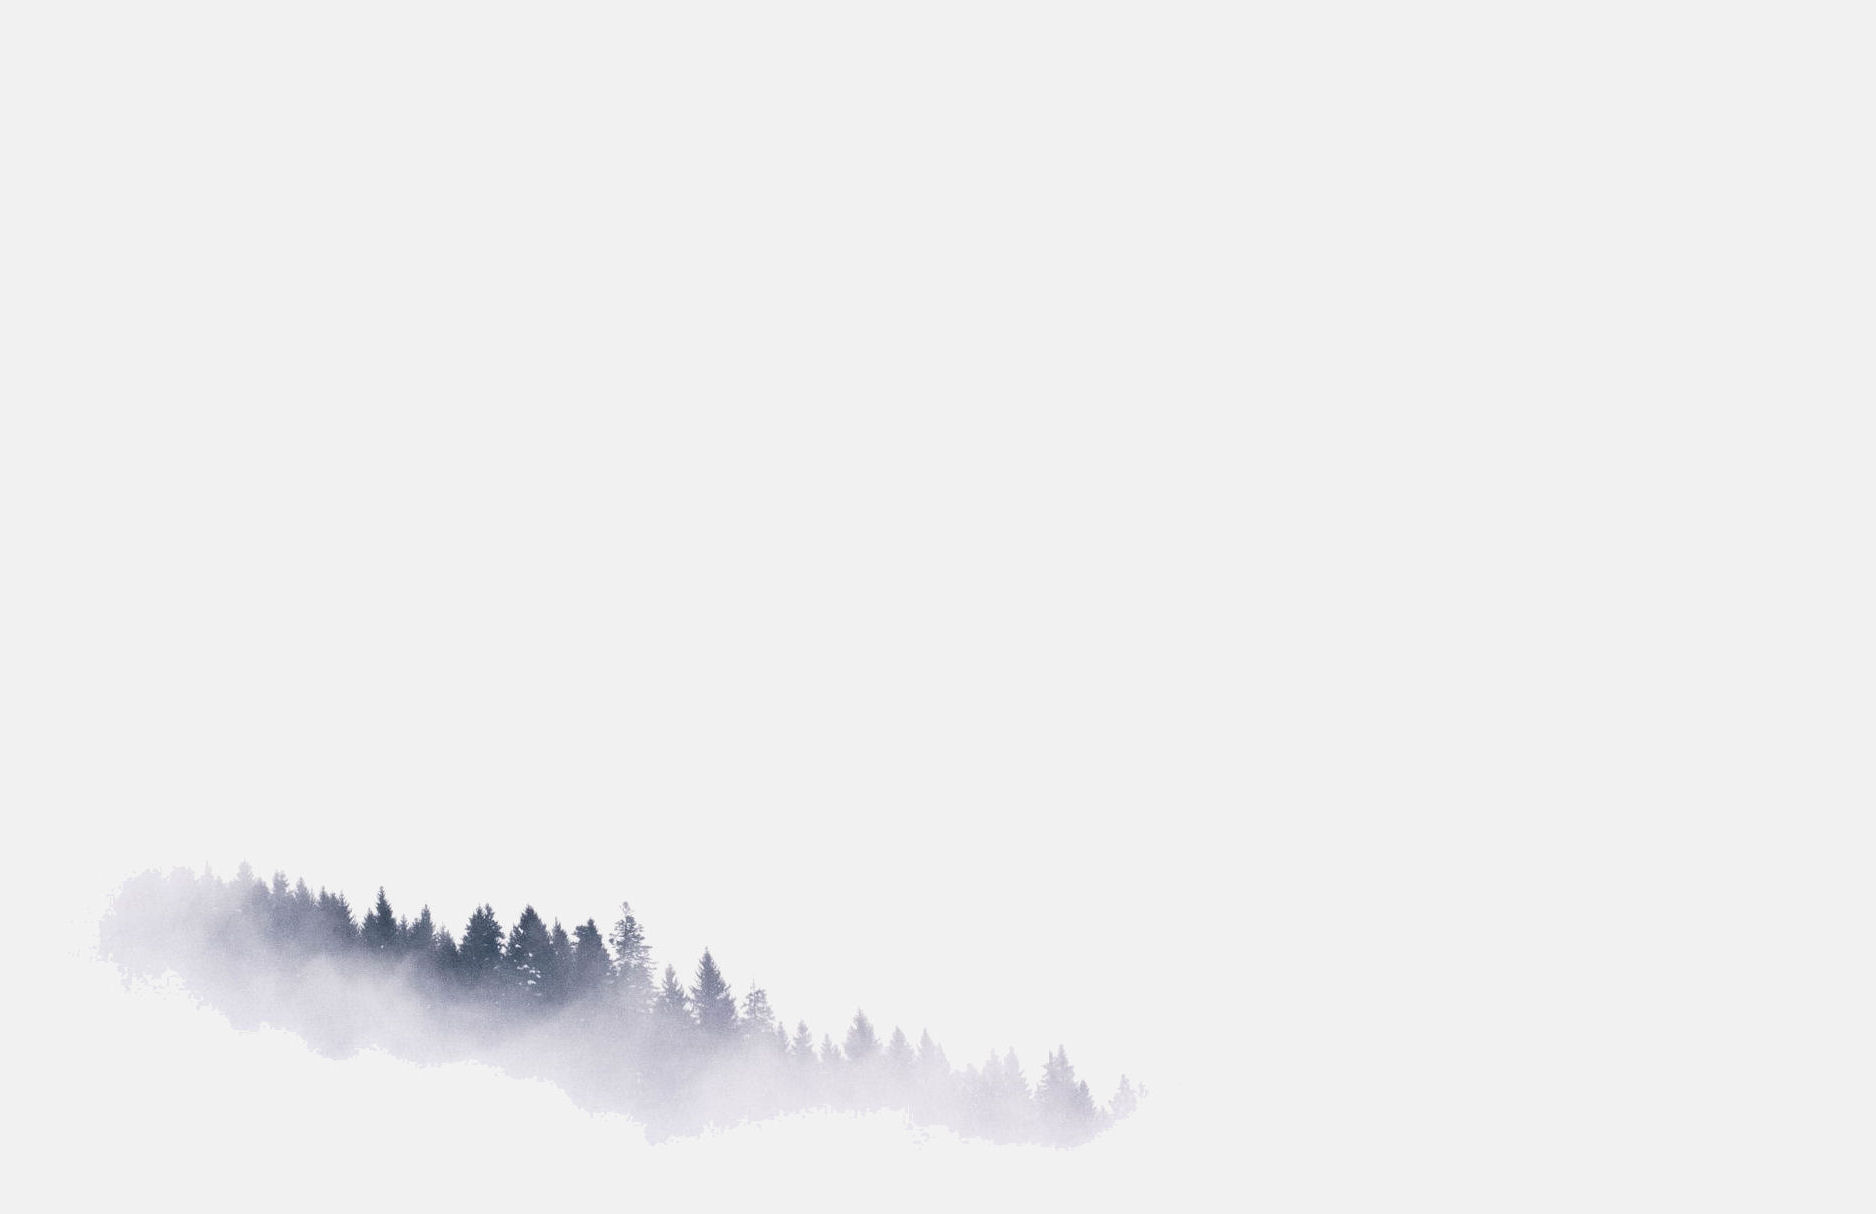
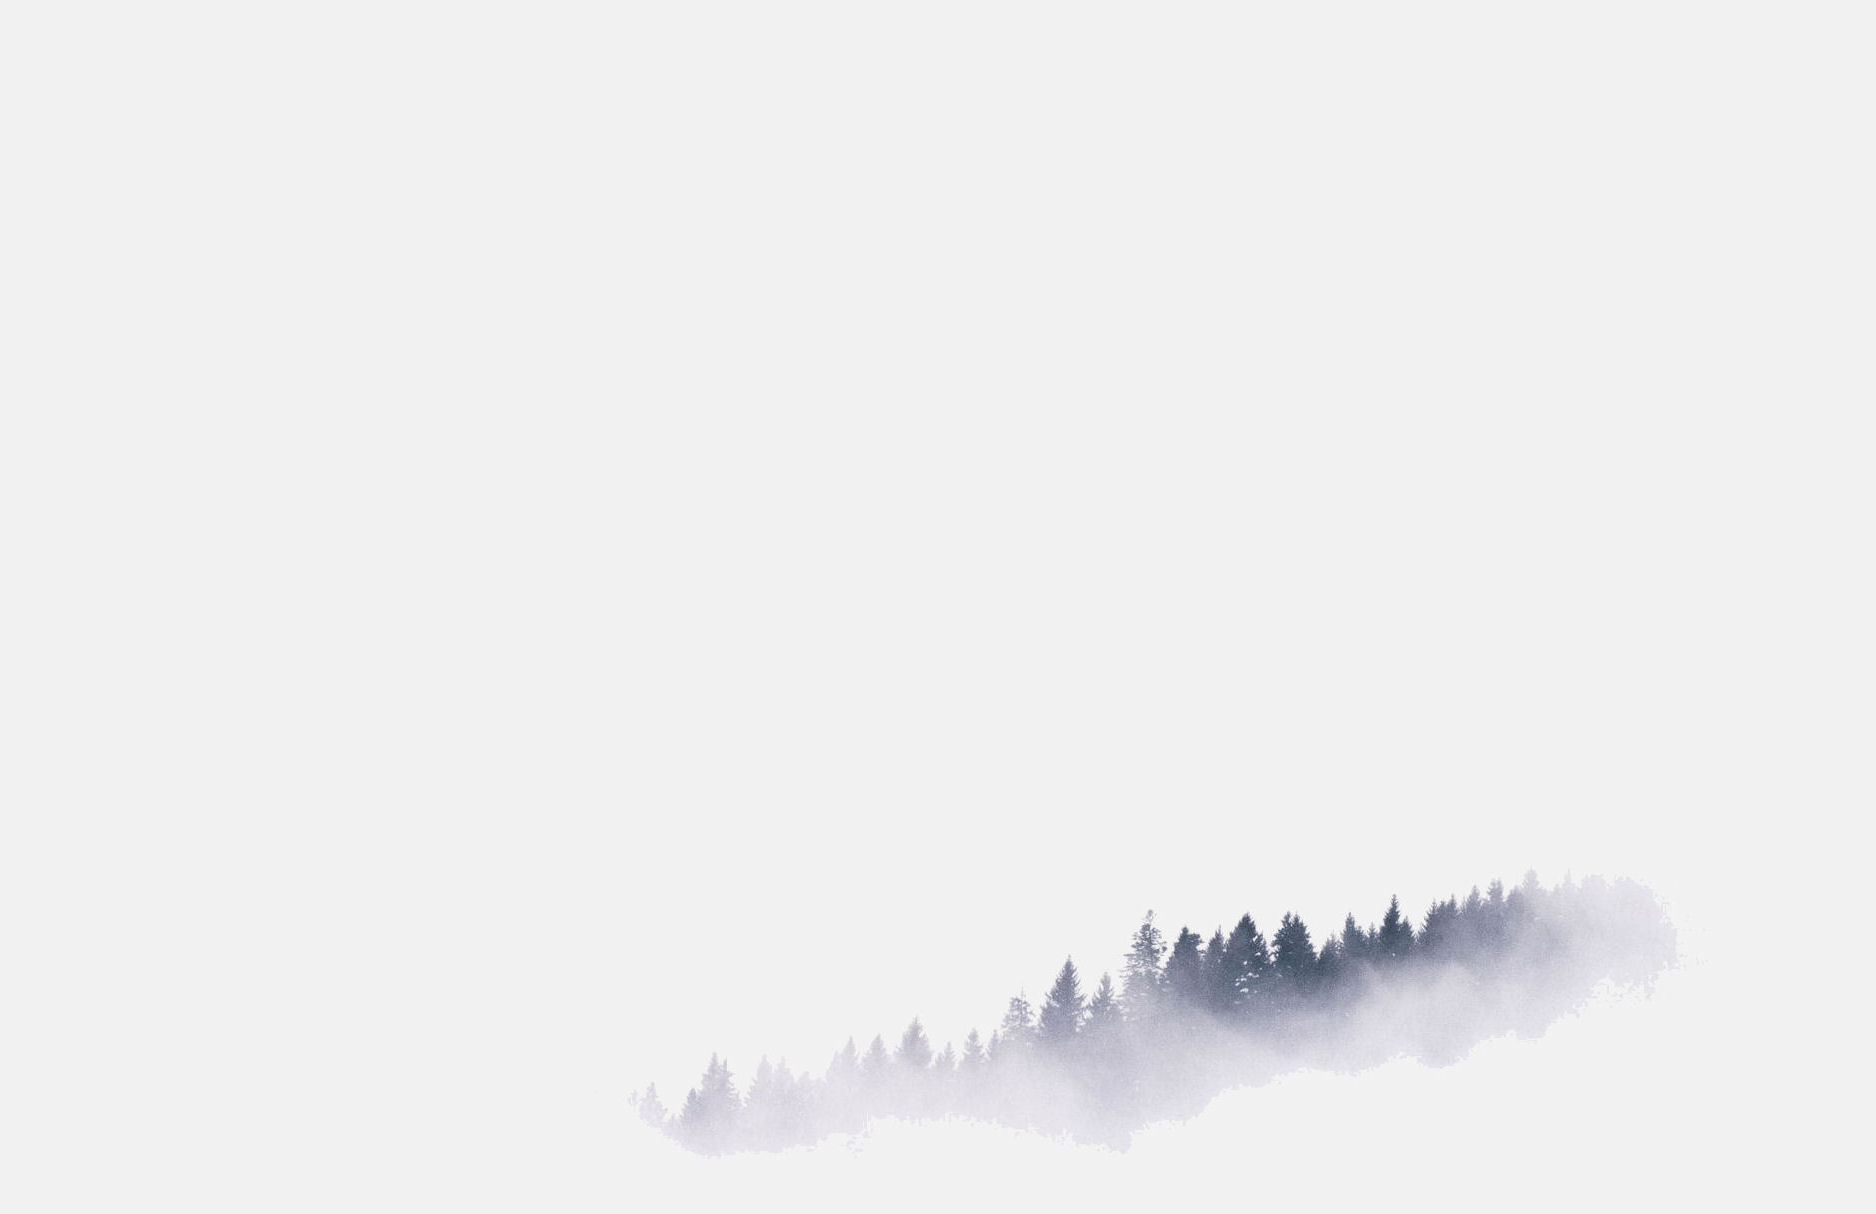
Flipped and repositioned background image, footer
Moved footer to left to show on mobile, flipped background image and repositioned accordingly.

Changed region(s): [[0.0928, 0.701, 0.8657, 0.9143]]

diff --git a/src/styles.css b/src/styles.css
@@ -10,7 +10,7 @@ body {background: url('../media/landscape.jpg');
    max-width: 100%;
     min-width: 950px;
   background-position-y: 85%;
-  background-position-x: 15%;
+  background-position-x: 90%;
 color: #232a63;
 font-family: 'Roboto', sans-serif;}
 
@@ -27,7 +27,7 @@ h4 p {padding-top: 100px;
 
 
 footer {position: fixed;
-  padding-left: 1268px;
+  padding-right: 500px;
   bottom: 0;
   width: 50%;
   font-size: 18px;
@@ -118,6 +118,8 @@ box-shadow: 0px 0px 7px #E9E9E9;}
 
 }
 
+.icons {padding-left: 0;
+margin: 0;}
 .inputs {
   max-width: 100%;
 margin-top: 10px;
